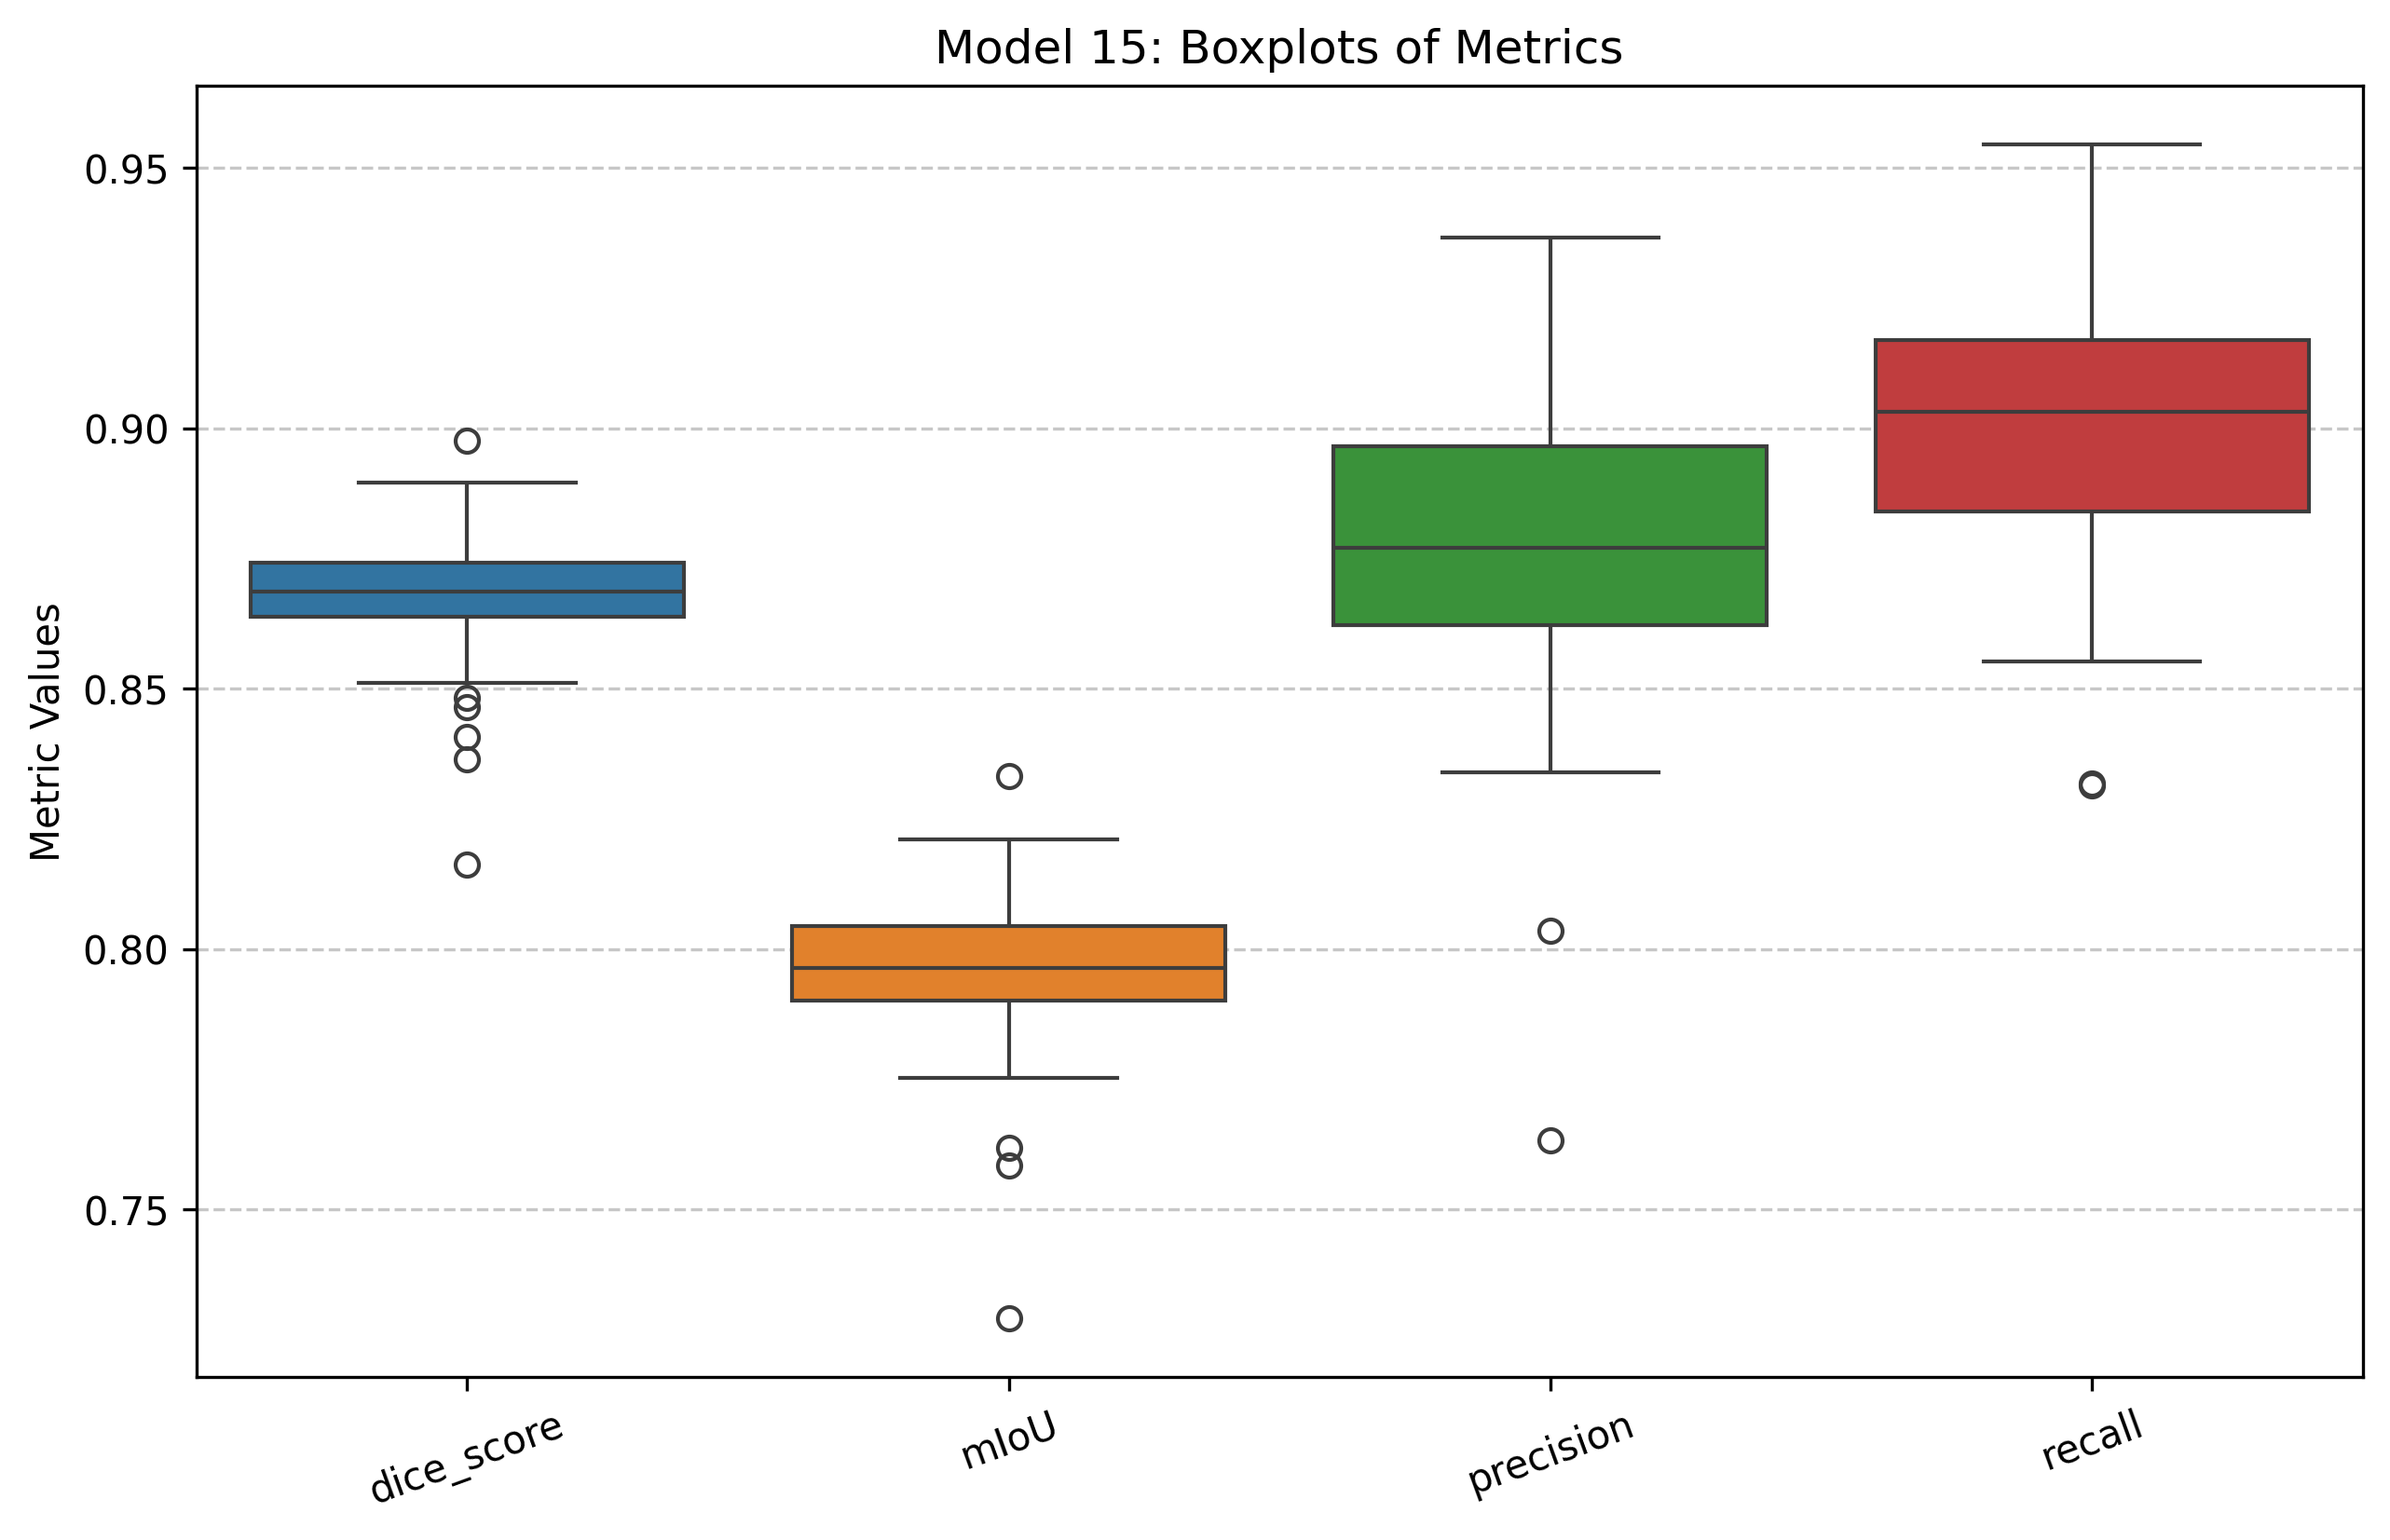
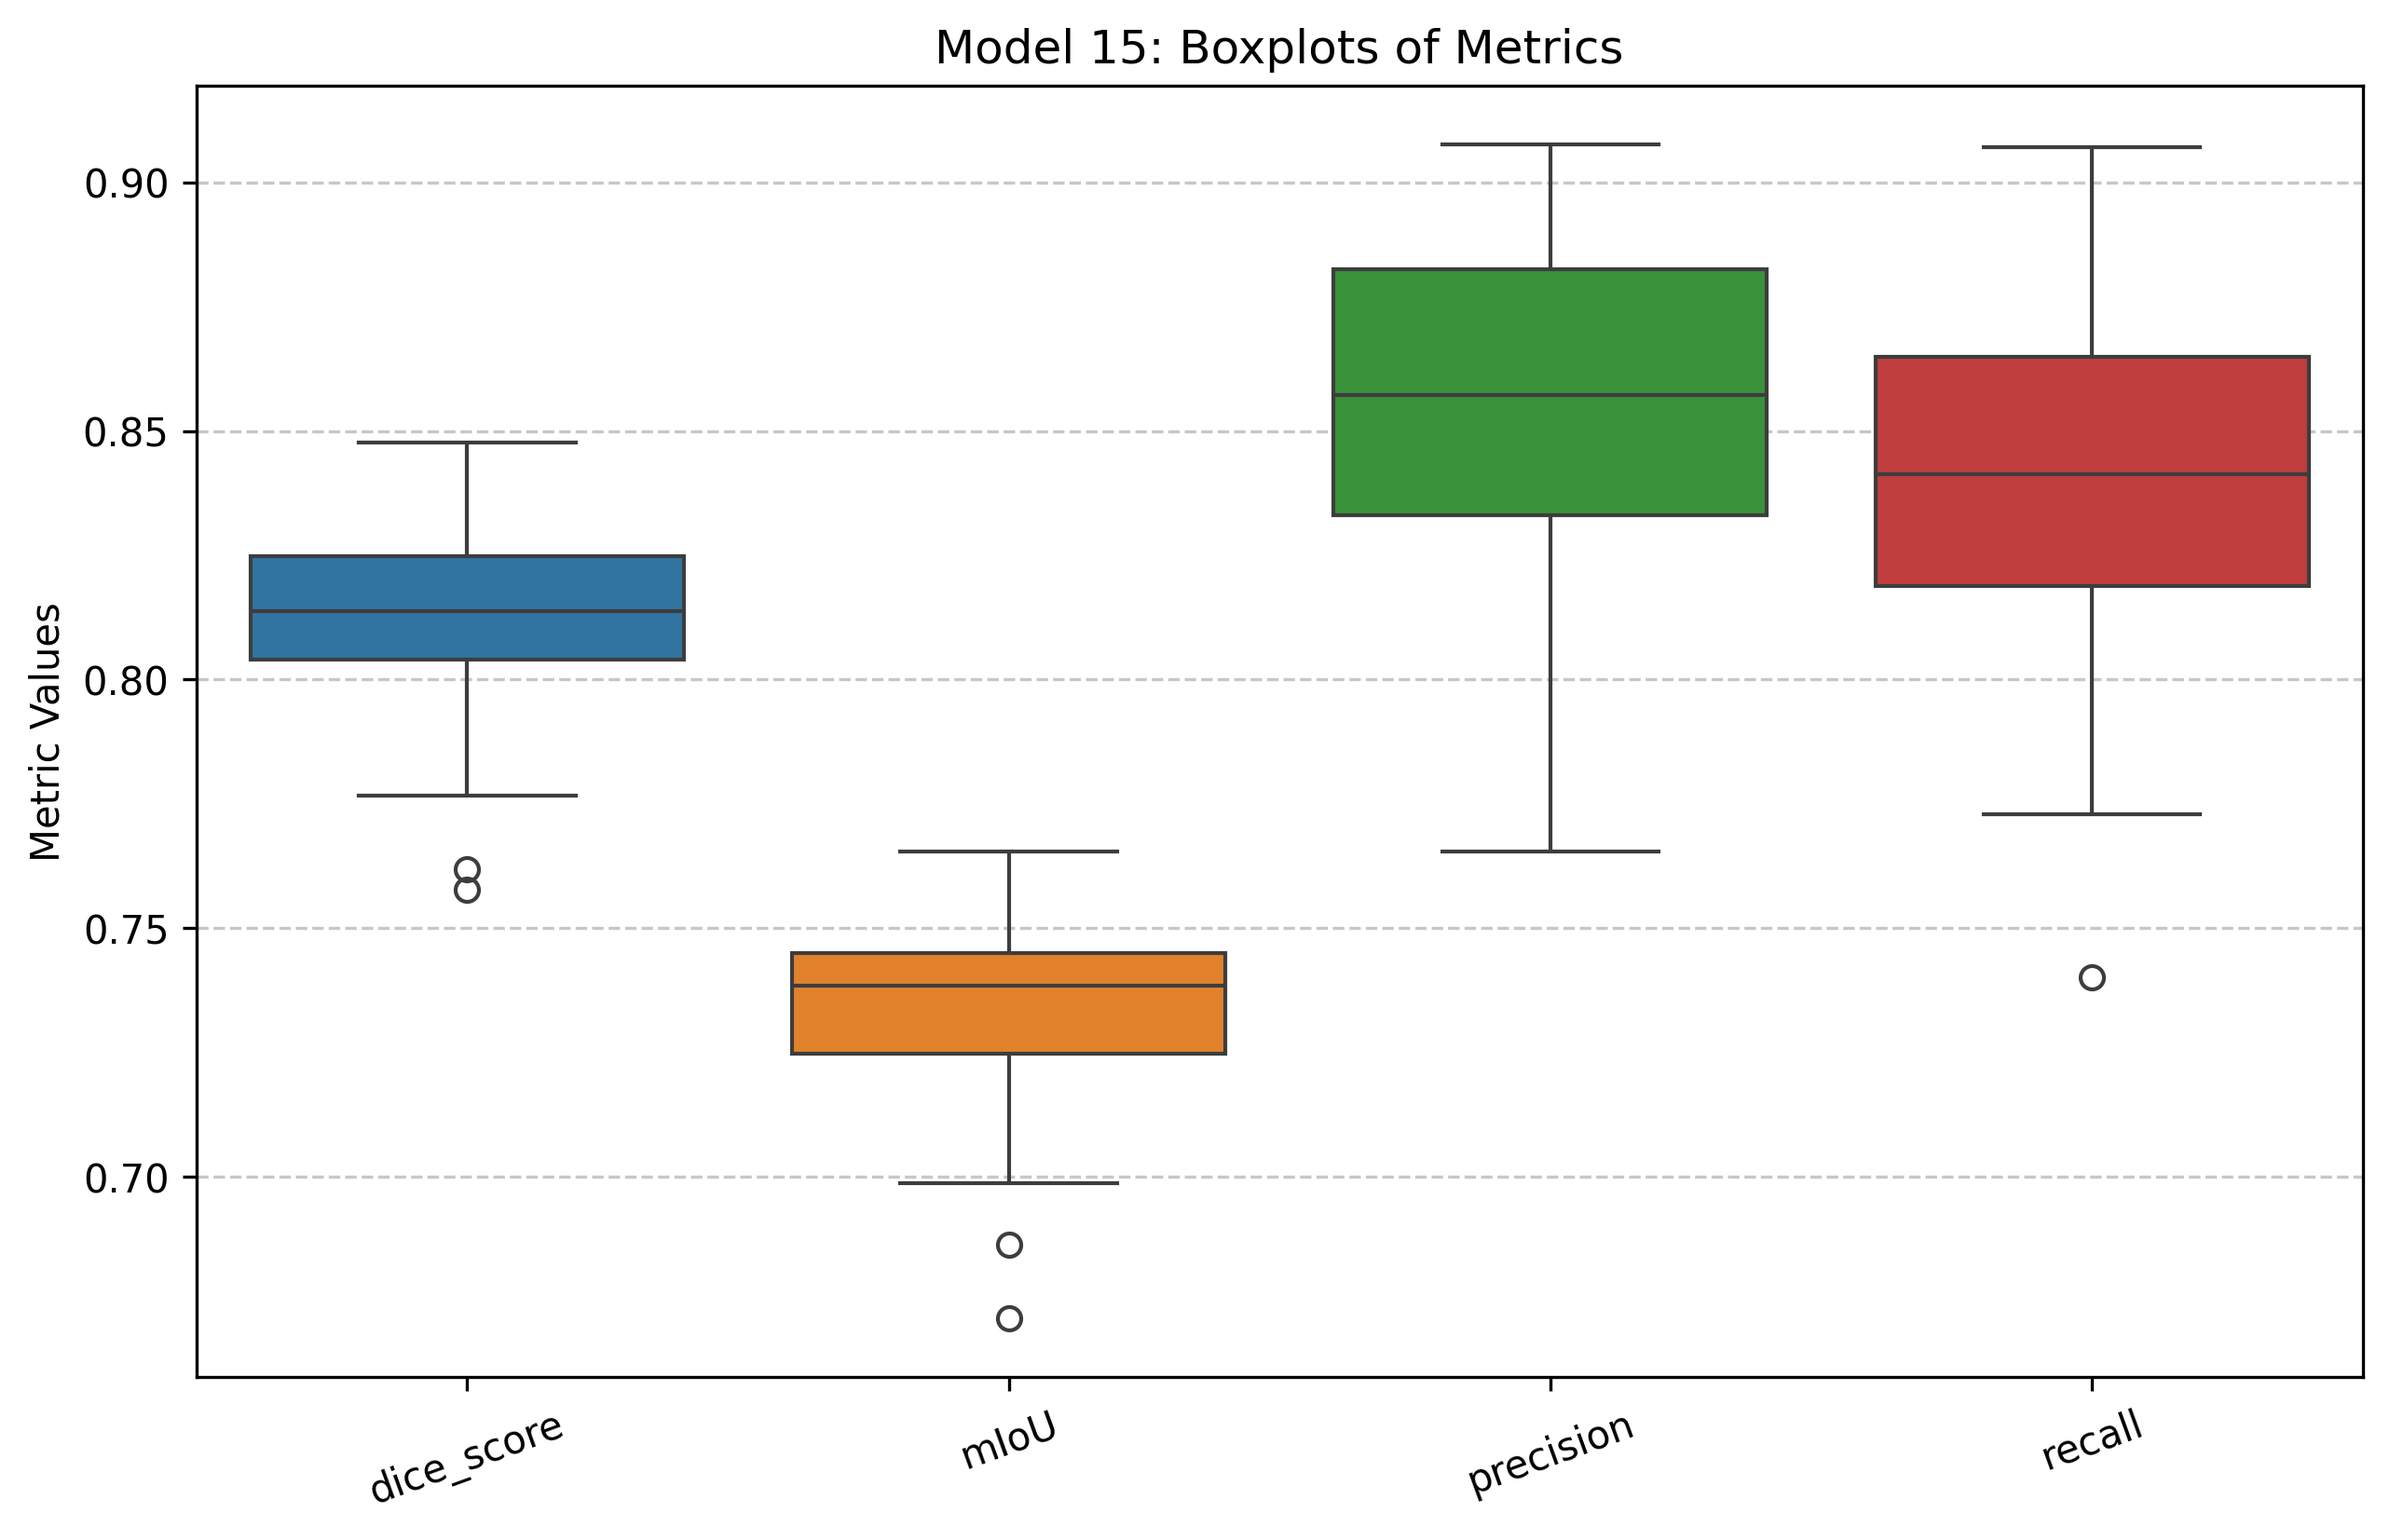
convolution images

diff --git a/convolution_example.py b/convolution_example.py
@@ -1,0 +1,102 @@
+import numpy as np
+from PIL import Image, ImageOps
+import matplotlib.pyplot as plt
+
+# Load and preprocess image
+img = Image.open('data/test/imgs/cju35eg0tdmjt085525sb4bua.jpg').convert('L')
+
+img = ImageOps.pad(img, (256, 256))  # Resize to square with padding if needed
+img_array = np.array(img).astype(np.float32)
+
+# Define a Sobel vertical edge detection kernel
+kernel = np.array([
+    [-1, 0, 1],
+    [-2, 0, 2],
+    [-1, 0, 1]
+], dtype=np.float32)
+
+
+def normalise(img):
+    return (img - img.min()) / (img.max() - img.min()) * 255
+
+
+kernel_img = Image.fromarray(normalise(kernel).astype(np.uint8), mode='L')
+
+# Upscale to 256x256 with nearest-neighbour interpolation
+kernel_img_upscaled = kernel_img.resize((256, 256), resample=Image.NEAREST)
+
+# Save
+kernel_img_upscaled.save("kernel.png")
+# Pad the kernel to the size of the image, and shift to centre
+padded_kernel = np.zeros_like(img_array)
+kh, kw = kernel.shape
+padded_kernel[:kh, :kw] = kernel
+padded_kernel = np.fft.ifftshift(padded_kernel)
+
+# FFT of both image and kernel
+F_img = np.fft.fft2(img_array)
+F_kernel = np.fft.fft2(padded_kernel)
+
+# Convolution in frequency domain
+F_conv = F_img * F_kernel
+conv_result = np.fft.fftshift(np.fft.ifft2(F_conv).real)
+
+# Convert outputs to images
+img_out = Image.fromarray(normalise(conv_result).astype(np.uint8))
+img_orig = Image.fromarray(img_array.astype(np.uint8))
+
+# Compute magnitude spectra for frequency domain visualisation
+F_img_mag = np.log(np.abs(F_img) + 1)
+F_kernel_mag = np.log(np.abs(F_kernel) + 1)
+F_conv_mag = np.log(np.abs(F_conv) + 1)
+
+# Convert to 8-bit images for saving
+F_img_img = Image.fromarray(normalise(F_img_mag).astype(np.uint8))
+F_kernel_img = Image.fromarray(normalise(F_kernel_mag).astype(np.uint8))
+F_conv_img = Image.fromarray(normalise(F_conv_mag).astype(np.uint8))
+
+# Save spatial domain results
+img_orig.save('original.png')
+img_out.save('fourier_convolution_output.png')
+
+# Save frequency domain images
+F_img_img.save('frequency_domain_image.png')
+F_kernel_img.save('frequency_domain_kernel.png')
+F_conv_img.save('frequency_domain_convolution_result.png')
+
+# Display all together
+plt.figure(figsize=(16, 8))
+
+plt.subplot(2, 3, 1)
+plt.imshow(img_array, cmap='gray')
+plt.title('Original Image')
+plt.axis('off')
+
+plt.subplot(2, 3, 2)
+plt.imshow(kernel, cmap='gray')
+plt.title('Sobel Kernel')
+plt.axis('off')
+
+plt.subplot(2, 3, 3)
+plt.imshow(conv_result, cmap='gray')
+plt.title('Convolution via FFT (Spatial Domain)')
+plt.axis('off')
+
+plt.subplot(2, 3, 4)
+plt.imshow(F_img_mag, cmap='gray')
+plt.title('Image in Frequency Domain')
+plt.axis('off')
+
+plt.subplot(2, 3, 5)
+plt.imshow(F_kernel_mag, cmap='gray')
+plt.title('Kernel in Frequency Domain')
+plt.axis('off')
+
+plt.subplot(2, 3, 6)
+plt.imshow(F_conv_mag, cmap='gray')
+plt.title('Convolution in Frequency Domain')
+plt.axis('off')
+
+plt.tight_layout()
+plt.savefig('fft_convolution_pipeline_with_frequency_domain.png')
+plt.show()

diff --git a/analyse_results.py b/analyse_results.py
@@ -4,7 +4,7 @@ import matplotlib.pyplot as plt
 import seaborn as sns
 
 # File path
-file_path = "training_results_F10.4.txt"
+file_path = "training_results_J2(skip all).txt"
 
 # Updated regex pattern to extract the two dictionaries
 dict_pattern = re.compile(r"Run \d+: (\{.*?\}), Credible Intervals: (\{.*?\})")
